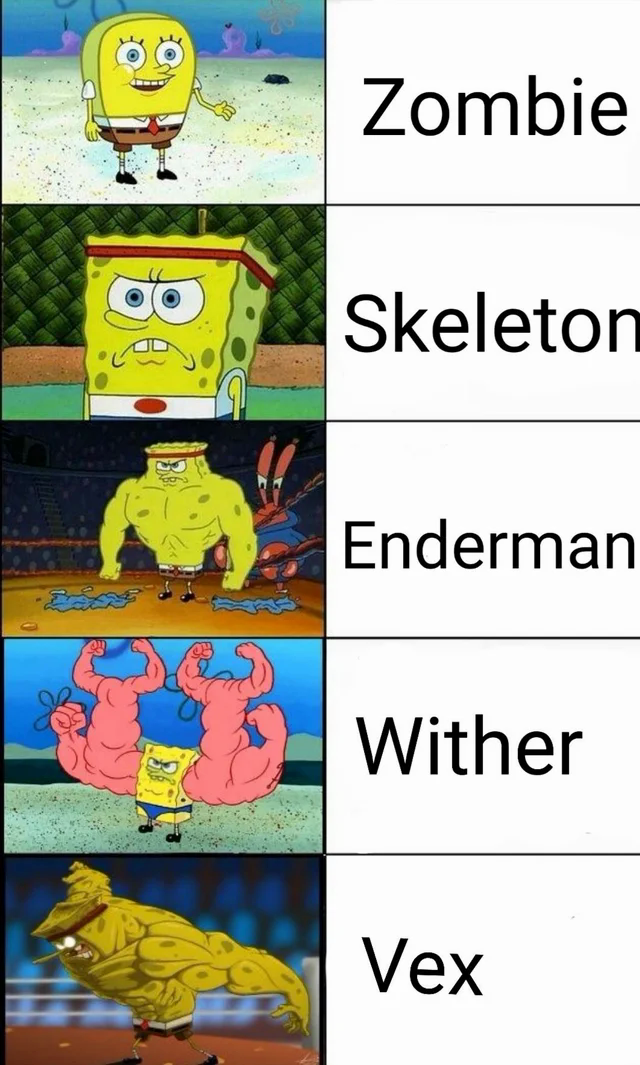
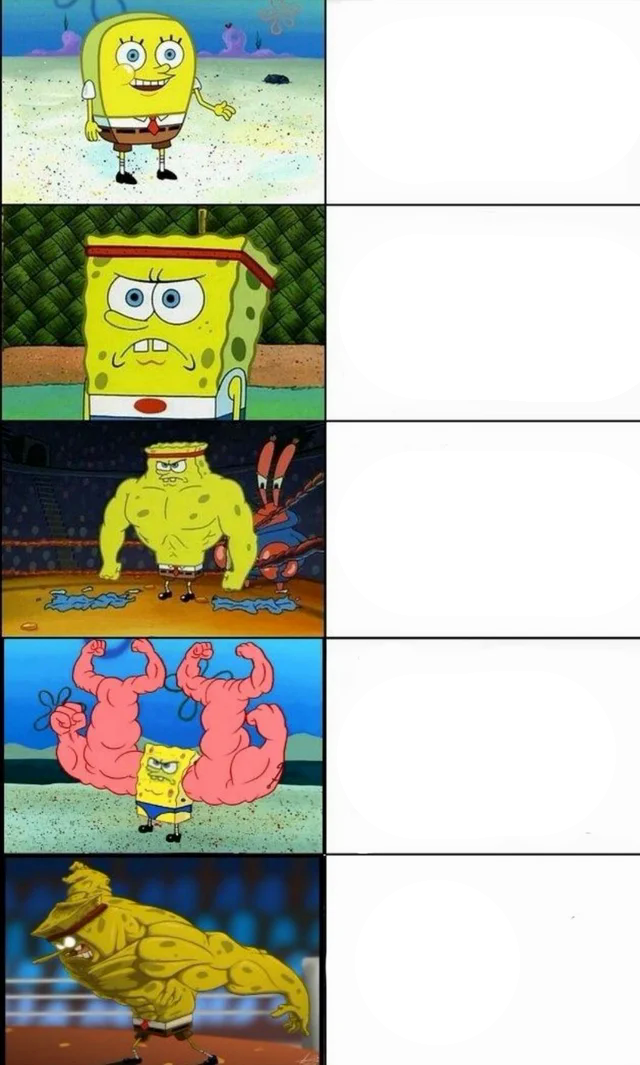
spongebob format

diff --git a/main.py b/main.py
@@ -1,28 +1,44 @@
 from PIL import Image, ImageDraw, ImageFont
 import random
 
-def random_phrase():
+def random_phrase() -> list:
     nouns = open("nouns.txt", "r").readlines()
     actions = open("actions.txt", "r").readlines()
 
     ret = f"When the {random.choice(nouns)[:-1]} {random.choice(actions)[:-1]} you"
 
-    return ret
+    return [[(0, 0), ret]]
 
-def generate_meme(meme):
+def random_nouns(count, x, spacing) -> list:
+    nouns = open("nouns.txt", "r").readlines()
+
+    return [[(x, spacing * i), random.choice(nouns)] for i in range(count)]
+
+def generate_meme(meme) -> list:
     texts = {
-        "peace": random_phrase()
+        "peace": random_phrase(),
+        "spongebob": random_nouns(5, 350, 230)
     }
 
     return texts[meme]
 
 def main():
-    caption = generate_meme("peace")
+    meme = random.choice(["peace", "spongebob"])
+    caption = generate_meme(meme)
 
-    img = Image.open("formats/peace.png")
+    img = Image.open(f"formats/{meme}.png")
     draw = ImageDraw.Draw(img)
     font = ImageFont.truetype('impact.ttf', size=18)
-    draw.text((0, 0), caption, 'white', font)
+    print(caption)
+
+    for l in caption:
+        print(l[0])
+        draw.text((l[0][0] - 1, l[0][1] - 1), l[1], 'black', font)
+        draw.text((l[0][0] + 1, l[0][1] - 1), l[1], 'black', font)
+        draw.text((l[0][0] - 1, l[0][1] + 1), l[1], 'black', font)
+        draw.text((l[0][0] + 1, l[0][1] + 1), l[1], 'black', font)
+
+        draw.text(l[0], l[1], 'white', font)
     img.save('out.png')
 
 main()
